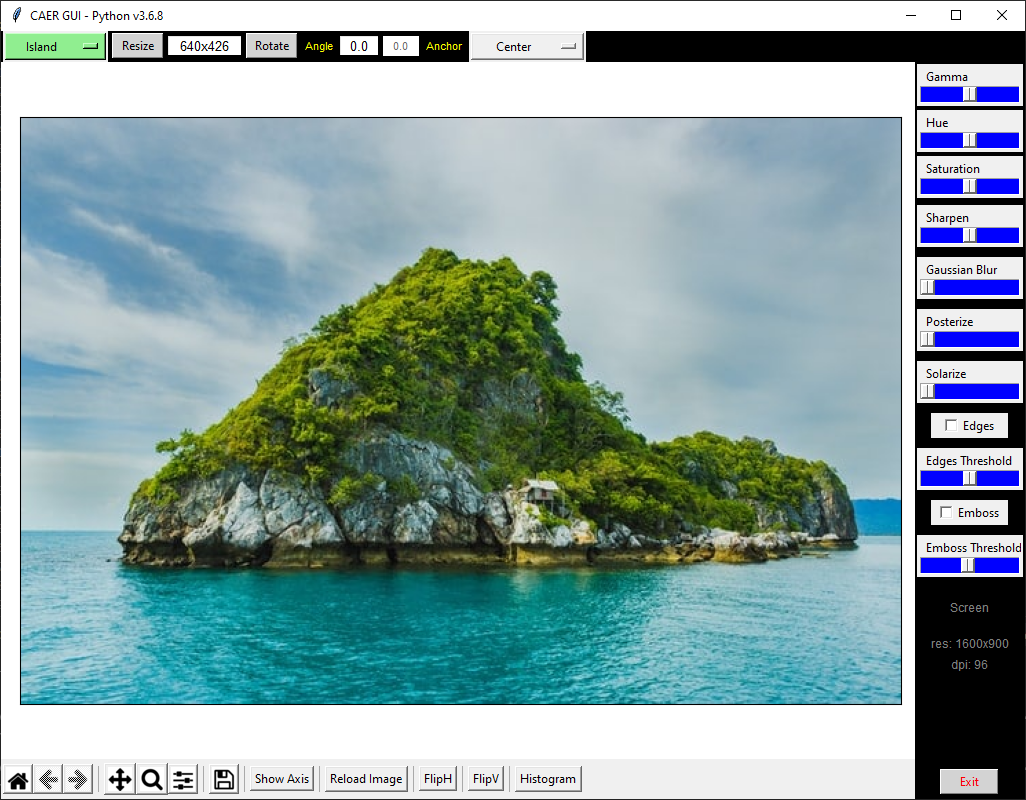
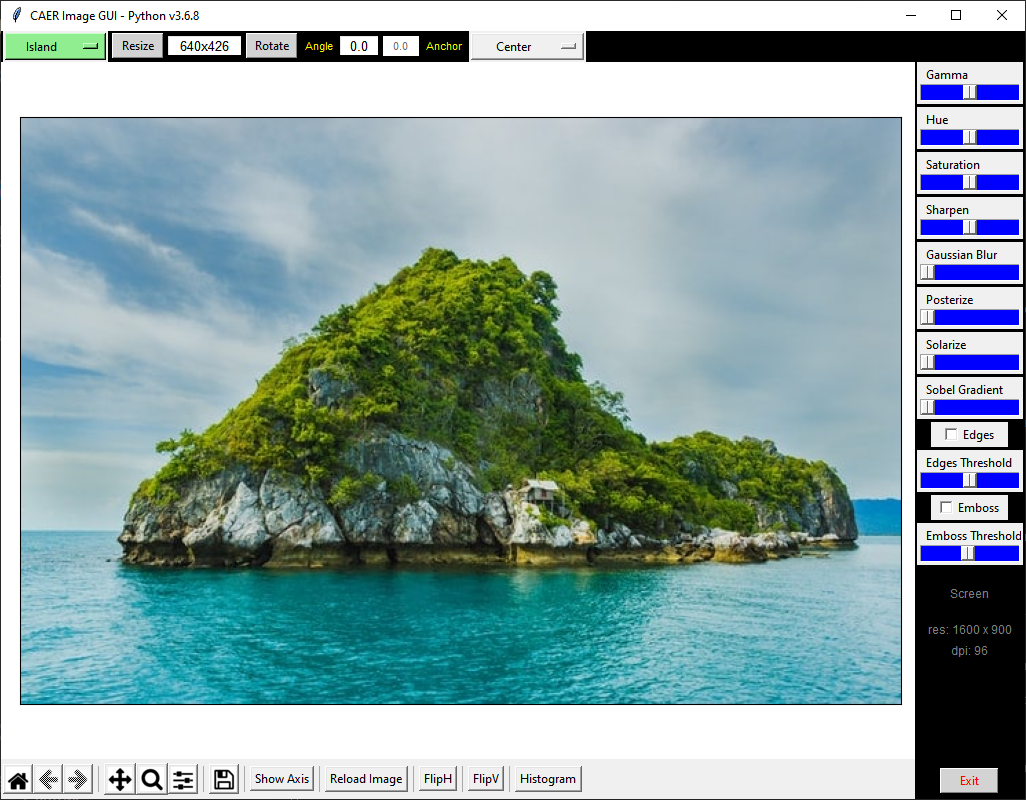
Add Sobel Gradient slider
- Rearrange filedialog file types with addition of TIFF
- When needed, Enable/Disable edges and emboss sliders

Changed region(s): [[0.8733, 0.0625, 1.0, 0.8438], [0.0624, 0.0, 0.1871, 0.0312], [0.9357, 0.9688, 0.9669, 1.0]]

diff --git a/examples/GUI/caer_gui.py b/examples/GUI/caer_gui.py
@@ -12,8 +12,10 @@
 
 # Tested as working in Windows 10 with python v3.6.8 and Kubuntu Linux with python v3.6.8
 # You can select one of 14 built-in images to display (startup has "Island" selected as default)
-# You can also browse and select one of your images (use "Open File >>" and either browse locally or enter a URL), either of PNG / JPG / BMP file types is available and was tested as working
-# Selecting any of the images, at any point in time, will always start with a fresh original image and reset controls (with the exception of 'Open File >>' which will allow you to select a different image)
+# You can also browse and select one of your images (use the 'Open File >>' option and either browse locally or enter a URL)
+# Either of PNG / JPG / BMP / TIFF file types is available and was tested as working
+# Selecting any of the images, at any point in time, will always start with a fresh original image and reset controls
+# The exception to the above is 'Open File >>' which will allow you to select a different image
 # The 'Reload Image' button will reload the original version of currently selected image, including the user opened file
 
 # All function controls are set to manipulate the currently displayed image
@@ -27,6 +29,7 @@ from matplotlib.figure import Figure
 
 from tkinter import *
 from tkinter import filedialog as fd
+
 import platform
 import math
 import caer
@@ -65,8 +68,14 @@ def show_original_image(*args):
 
     if selectedImage == 'Open File >>':
         if not reload_local_file:
+            all_ext = ('All files', '*.*')
+            png_ext = ('PNG files', '.png')
+            jpg_ext = ('JPG files', '.jpg .jpeg')
+            bmp_ext = ('BMP files', '.bmp')
+            tiff_ext = ('TIFF files', '.tif .tiff')
+
             try:
-                img_filename = fd.askopenfilename(filetypes=(('All files', '*.*'),('PNG files', '*.png'),('BMP files', '*.bmp'),('JPG files', '*.jpg')))
+                img_filename = fd.askopenfilename(filetypes=(all_ext, png_ext, jpg_ext, bmp_ext, tiff_ext))
 
                 if img_filename != '':
                     lblFileName['text'] = img_filename
@@ -282,6 +291,10 @@ def set_edges():
 
     if show_edges.get() == 1:
         show_emboss.set(0)
+        sliderEmboss['state'] = 'disabled'
+        sliderLowThreshold['state'] = 'normal'
+    else:
+        sliderLowThreshold['state'] = 'disabled'
 
     adjust_ghsps()
 
@@ -290,6 +303,10 @@ def set_emboss():
 
     if show_emboss.get() == 1:
         show_edges.set(0)
+        sliderLowThreshold['state'] = 'disabled'
+        sliderEmboss['state'] = 'normal'
+    else:
+        sliderEmboss['state'] = 'disabled'
     
     adjust_ghsps()
 
@@ -338,6 +355,13 @@ def adjust_ghsps(*args):
         if solarize.get() < 255:
             transformedImage = caer.transforms.solarize(transformedImage, solarize.get())
 
+        if sobel_threshold.get() > 0:
+            transformedImage = caer.core.cv.cvtColor(transformedImage, caer.core.cv.COLOR_RGB2GRAY)
+            sobelx = caer.core.cv.Sobel(transformedImage, caer.core.cv.IMREAD_GRAYSCALE, sobel_threshold.get() - 2 if sobel_threshold.get() > 2 else sobel_threshold.get(), 0, ksize=sobel_threshold.get() if sobel_threshold.get() % 2 != 0 else sobel_threshold.get() + 1)
+            sobely = caer.core.cv.Sobel(transformedImage, caer.core.cv.IMREAD_GRAYSCALE, 0, sobel_threshold.get() - 2 if sobel_threshold.get() > 2 else sobel_threshold.get(), ksize=sobel_threshold.get() if sobel_threshold.get() % 2 != 0 else sobel_threshold.get() + 1)
+            transformedImage = caer.core.cv.bitwise_or(sobelx, sobely)
+            transformedImage = caer.core.cv.cvtColor(transformedImage, caer.core.cv.COLOR_GRAY2RGB)
+
         if show_edges.get() == 1:
             transformedImage = caer.core.cv.cvtColor(transformedImage, caer.core.cv.COLOR_RGB2GRAY)
             transformedImage = caer.core.cv.Canny(transformedImage, low_threshold.get(), low_threshold.get() * 2)
@@ -370,6 +394,7 @@ def reset_ghsps():
     global solarize
     global show_edges
     global low_threshold
+    global sobel_threshold
     global sharpen
     global show_emboss
     global emboss
@@ -400,9 +425,12 @@ def reset_ghsps():
     solarize.set(255)
     show_edges.set(0)
     low_threshold.set(50)
+    sliderLowThreshold['state'] = 'disabled'
+    sobel_threshold.set(0)
     sharpen.set(8.9)
     show_emboss.set(0)
     emboss.set(114)
+    sliderEmboss['state'] = 'disabled'
 
     # close any open histogram window
     plt.close()
@@ -448,7 +476,6 @@ def main():
     global popup_menu_image
     global reload_local_file
     global showAxis
-    global sliderSolarize
     global resizedImgBtn
     global flip_H
     global flip_V
@@ -465,15 +492,18 @@ def main():
     global imgGamma
     global hue
     global saturation
+    global sharpen
     global gaussian_blur
     global posterize
     global solarize
     global show_edges
     global low_threshold
-    global sharpen
+    global sliderLowThreshold
     global show_emboss
     global emboss
     global embossKernel
+    global sliderEmboss
+    global sobel_threshold
 
     # create our main window
     root = Tk()
@@ -576,73 +606,79 @@ def main():
     # create the image gamma slider control
     imgGamma = DoubleVar()
     sliderGamma = Scale(frame2, label='Gamma', variable=imgGamma, troughcolor='blue', from_=0.1, to=2.0, resolution=0.05, sliderlength=15, showvalue=False, orient=HORIZONTAL, command=adjust_ghsps)
-    sliderGamma.pack(side=TOP, anchor=E, padx=2, pady=2)
+    sliderGamma.pack(side=TOP, anchor=E, padx=2)
     imgGamma.set(1.05)
 
     # create the image hue slider control
     hue = DoubleVar()
     sliderHue = Scale(frame2, label='Hue', variable=hue, troughcolor='blue', from_=-0.5, to=0.5, resolution=0.05, sliderlength=15, showvalue=False, orient=HORIZONTAL, command=adjust_ghsps)
-    sliderHue.pack(side=TOP, anchor=E, padx=2, pady=2)
+    sliderHue.pack(side=TOP, anchor=E, padx=2, pady=3)
     hue.set(0.0)
 
     # create the image saturation slider control
     saturation = DoubleVar()
     sliderSaturation = Scale(frame2, label='Saturation', variable=saturation, troughcolor='blue', from_=0.0, to=2.0, resolution=0.1, sliderlength=15, showvalue=False, orient=HORIZONTAL, command=adjust_ghsps)
-    sliderSaturation.pack(side=TOP, anchor=E, padx=2, pady=2)
+    sliderSaturation.pack(side=TOP, anchor=E, padx=2)
     saturation.set(1.0)
 
     # create the image sharpen slider control
     sharpen = DoubleVar()
     sliderSharpen = Scale(frame2, label='Sharpen', variable=sharpen, troughcolor='blue', from_=7.9, to=9.9, resolution=0.05, sliderlength=15, showvalue=False, orient=HORIZONTAL, command=set_sharpen_kernel)
-    sliderSharpen.pack(side=TOP, padx=2, pady=5)
+    sliderSharpen.pack(side=TOP, padx=2, pady=3)
     sharpen.set(8.9)
 
     # create the image Gaussian Blur slider control
     gaussian_blur = IntVar()
     sliderGaussianBlur = Scale(frame2, label='Gaussian Blur', variable=gaussian_blur, troughcolor='blue', from_=0, to=10, resolution=2, sliderlength=15, showvalue=False, orient=HORIZONTAL, command=adjust_ghsps)
-    sliderGaussianBlur.pack(side=TOP, padx=2, pady=5)
+    sliderGaussianBlur.pack(side=TOP, padx=2)
     gaussian_blur.set(0)
 
     # create the image posterize slider control
     posterize = IntVar()
     sliderPosterize = Scale(frame2, label='Posterize', variable=posterize, troughcolor='blue', from_=6, to=1, resolution=1, sliderlength=15, showvalue=False, orient=HORIZONTAL, command=adjust_ghsps)
-    sliderPosterize.pack(side=TOP, padx=2, pady=5)
+    sliderPosterize.pack(side=TOP, padx=2, pady=3)
     posterize.set(6)
 
     # create the image solarize slider control
     solarize = IntVar()
     sliderSolarize = Scale(frame2, label='Solarize', variable=solarize, troughcolor='blue', from_=255, to=0, resolution=1, sliderlength=15, showvalue=False, orient=HORIZONTAL, command=adjust_ghsps)
-    sliderSolarize.pack(side=TOP, padx=2, pady=5)
+    sliderSolarize.pack(side=TOP, padx=2)
     solarize.set(255)
+
+    # create the image sobel threshold slider control
+    sobel_threshold = IntVar()
+    sliderSobelThreshold = Scale(frame2, label='Sobel Gradient', variable=sobel_threshold, troughcolor='blue', from_=0, to=5, resolution=1, sliderlength=15, showvalue=False, orient=HORIZONTAL, command=adjust_ghsps)
+    sliderSobelThreshold.pack(side=TOP, padx=2, pady=3)
+    sobel_threshold.set(0)
 
     # add 'Edges' checkbox
     show_edges = IntVar()
     chbShowEdges = Checkbutton(frame2, text='Edges', variable=show_edges, width=7, command=set_edges)
-    chbShowEdges.pack(side=TOP, padx=2, pady=5)
+    chbShowEdges.pack(side=TOP, padx=2)
     show_edges.set(0)
 
     # create the image edges low threshold slider control
     low_threshold = IntVar()
     sliderLowThreshold = Scale(frame2, label='Edges Threshold', variable=low_threshold, troughcolor='blue', from_=100, to=0, resolution=1, sliderlength=15, showvalue=False, orient=HORIZONTAL, command=adjust_ghsps)
-    sliderLowThreshold.pack(side=TOP, padx=2, pady=5)
+    sliderLowThreshold.pack(side=TOP, padx=2, pady=3)
     low_threshold.set(50)
 
     # add 'Emboss' checkbox
     show_emboss = IntVar()
     chbShowEmboss = Checkbutton(frame2, text='Emboss', variable=show_emboss, width=7, command=set_emboss)
-    chbShowEmboss.pack(side=TOP, padx=2, pady=5)
+    chbShowEmboss.pack(side=TOP, padx=2)
     show_emboss.set(0)
 
     # create the image emboss slider control
     emboss = IntVar()
     sliderEmboss = Scale(frame2, label='Emboss Threshold', variable=emboss, troughcolor='blue', from_=128, to=99, resolution=1, sliderlength=15, showvalue=False, orient=HORIZONTAL, command=adjust_ghsps)
-    sliderEmboss.pack(side=TOP, padx=2, pady=5)
+    sliderEmboss.pack(side=TOP, padx=2, pady=3)
     emboss.set(114)
 
     lblScreen = Label(frame2, text='Screen', fg='grey', bg='black', font='Helvetica 9')
-    lblScreen.pack(side=TOP, anchor=CENTER, pady=15)
+    lblScreen.pack(side=TOP, anchor=CENTER, pady=7)
 
-    lblResolution = Label(frame2, text='res: ' + str(screen_width) + 'x' + str(screen_height), fg='grey', bg='black', font='Helvetica 9')
+    lblResolution = Label(frame2, text='res: ' + str(screen_width) + ' x ' + str(screen_height), fg='grey', bg='black', font='Helvetica 9')
     lblResolution.pack(side=TOP, anchor=CENTER)
 
     lblDPI = Label(frame2, text='dpi: ' + str(int(screenDPI)), fg='grey', bg='black', font='Helvetica 9')
